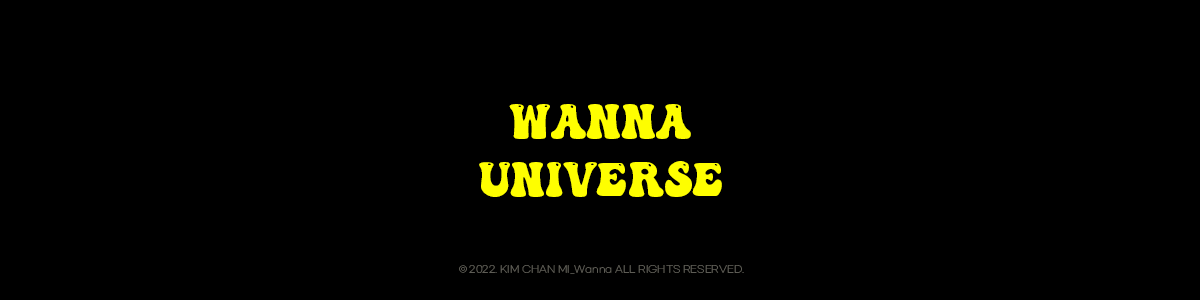
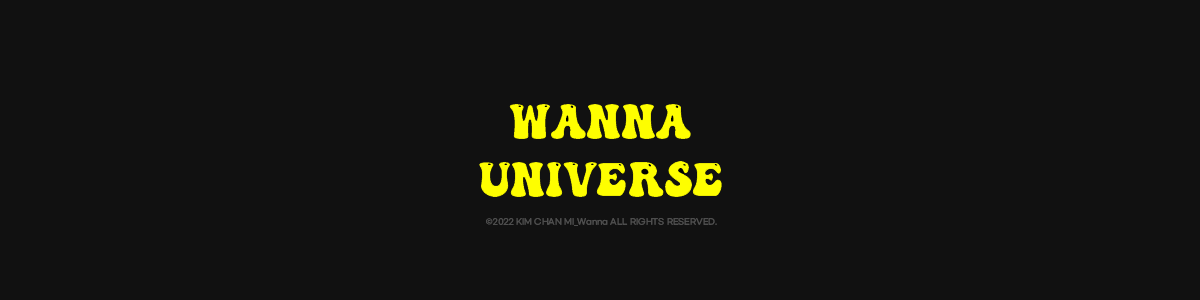
MainPage css수정 img변경

diff --git a/src/components/MainPage.css b/src/components/MainPage.css
@@ -2,30 +2,35 @@
     margin: 0;
     padding: 0;
 }
-
+#root{
+    background: #111;
+}
 #header {
     height: 64px;
     display: flex;
     justify-content: center;
     border-bottom: 1px solid gray;
     padding: 10px;
+    background: #111;
 }
 
 #body {
     height: 100%;
-    width: 1200px;
+    width: 1480px;
     margin: 0 auto;
 }
 
 #body>h2 {
-    margin-top: 10px;
+    margin-top: 34px;
     padding-bottom: 35px;
     text-align: center;
+    font-size: 30px;
+    color: #efefef;
 }
 
 #footer {
     height: 200px;
-    background: #e4e4e4;
+    /* background: #e4e4e4; */
     display: flex;
     float: 1 1 15%;
     justify-content: center;
@@ -35,14 +40,14 @@
 #footer>a {
     text-decoration: none;
     padding: 20px;
-    color: #333;
+    color: #4d4d4d;
 }
 
 #banner {
     height: 340px;
     display: flex;
     justify-content: center;
-    background: #000;
+    background: #111;
 }
 
 #header-area {
@@ -64,17 +69,19 @@
 }
 
 .product-card {
-    width: 230px;
-    height: 350px;
+    width: 345px;
+    height: 480px;    
     margin-right: 21px;
     margin-bottom: 30px;
     border: 1px solid rgba(230, 230, 230, 1);
     border-radius: 12px;
+    background: #fff;
 }
 
 .product-img {
     width: 100%;
     height: 100%;
+    border-radius: 12px 12px 0 0;
 }
 
 .product-content {
@@ -90,6 +97,7 @@
 .product-p {
     font-size: 16px;
     font-weight: bold;
+    margin-top: 8px;
 }
 
 .product-price {
